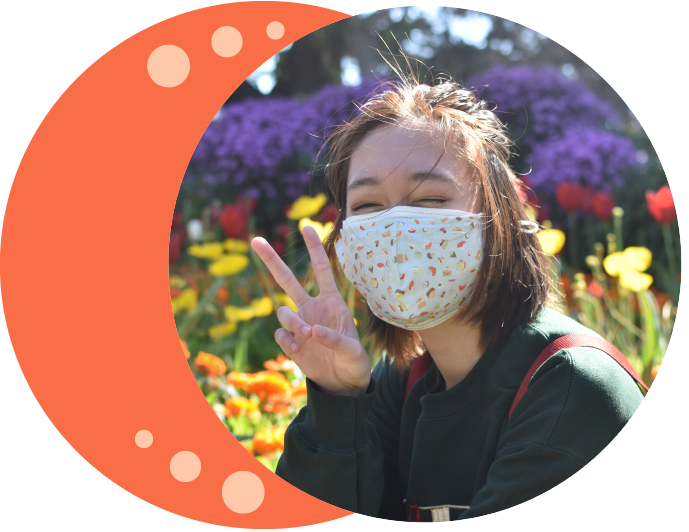
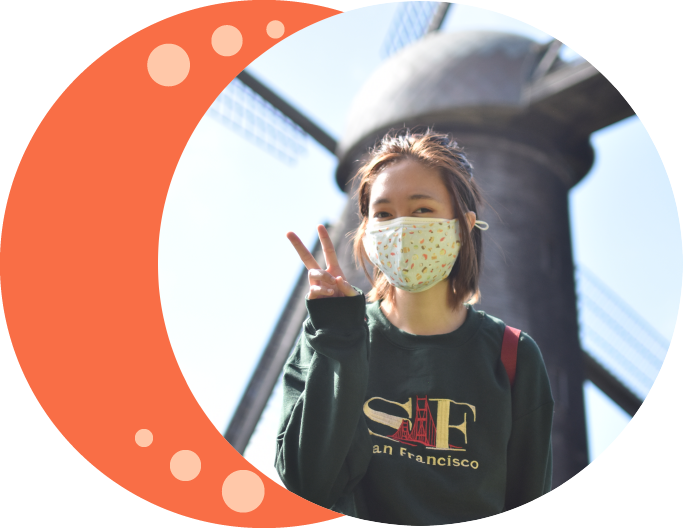
updated photos
changed pictures and reworded description!

diff --git a/index.html b/index.html
@@ -28,10 +28,9 @@
                 <img src="./face pictures/top-face-pic.png" alt="profile picture">
                 <div class="description">
                     <h3>
-                        hi! my name is pham, and i am a second-year studying computer science at UC Irvine. 
-                        i’m passionate about web development, specifically front-end UI/UX design. in my work, 
-                        i strive to design and develop applications that shape society to be more inclusive 
-                        and compassionate towards underrepresented groups.
+                      hi! i'm pham, an aspiring software engineer currently focusing on web development, specifically front-end UI/UX design. in my work, 
+                      i strive to design and develop applications that shape society to be more inclusive 
+                      and compassionate towards underrepresented groups.
                     </h3>
                 </div>
                 <a href="#about"><img src="./arrows/orange-arrow.png" alt="arrow button. when clicked, goes to about section" class="arrow-down"></a>
